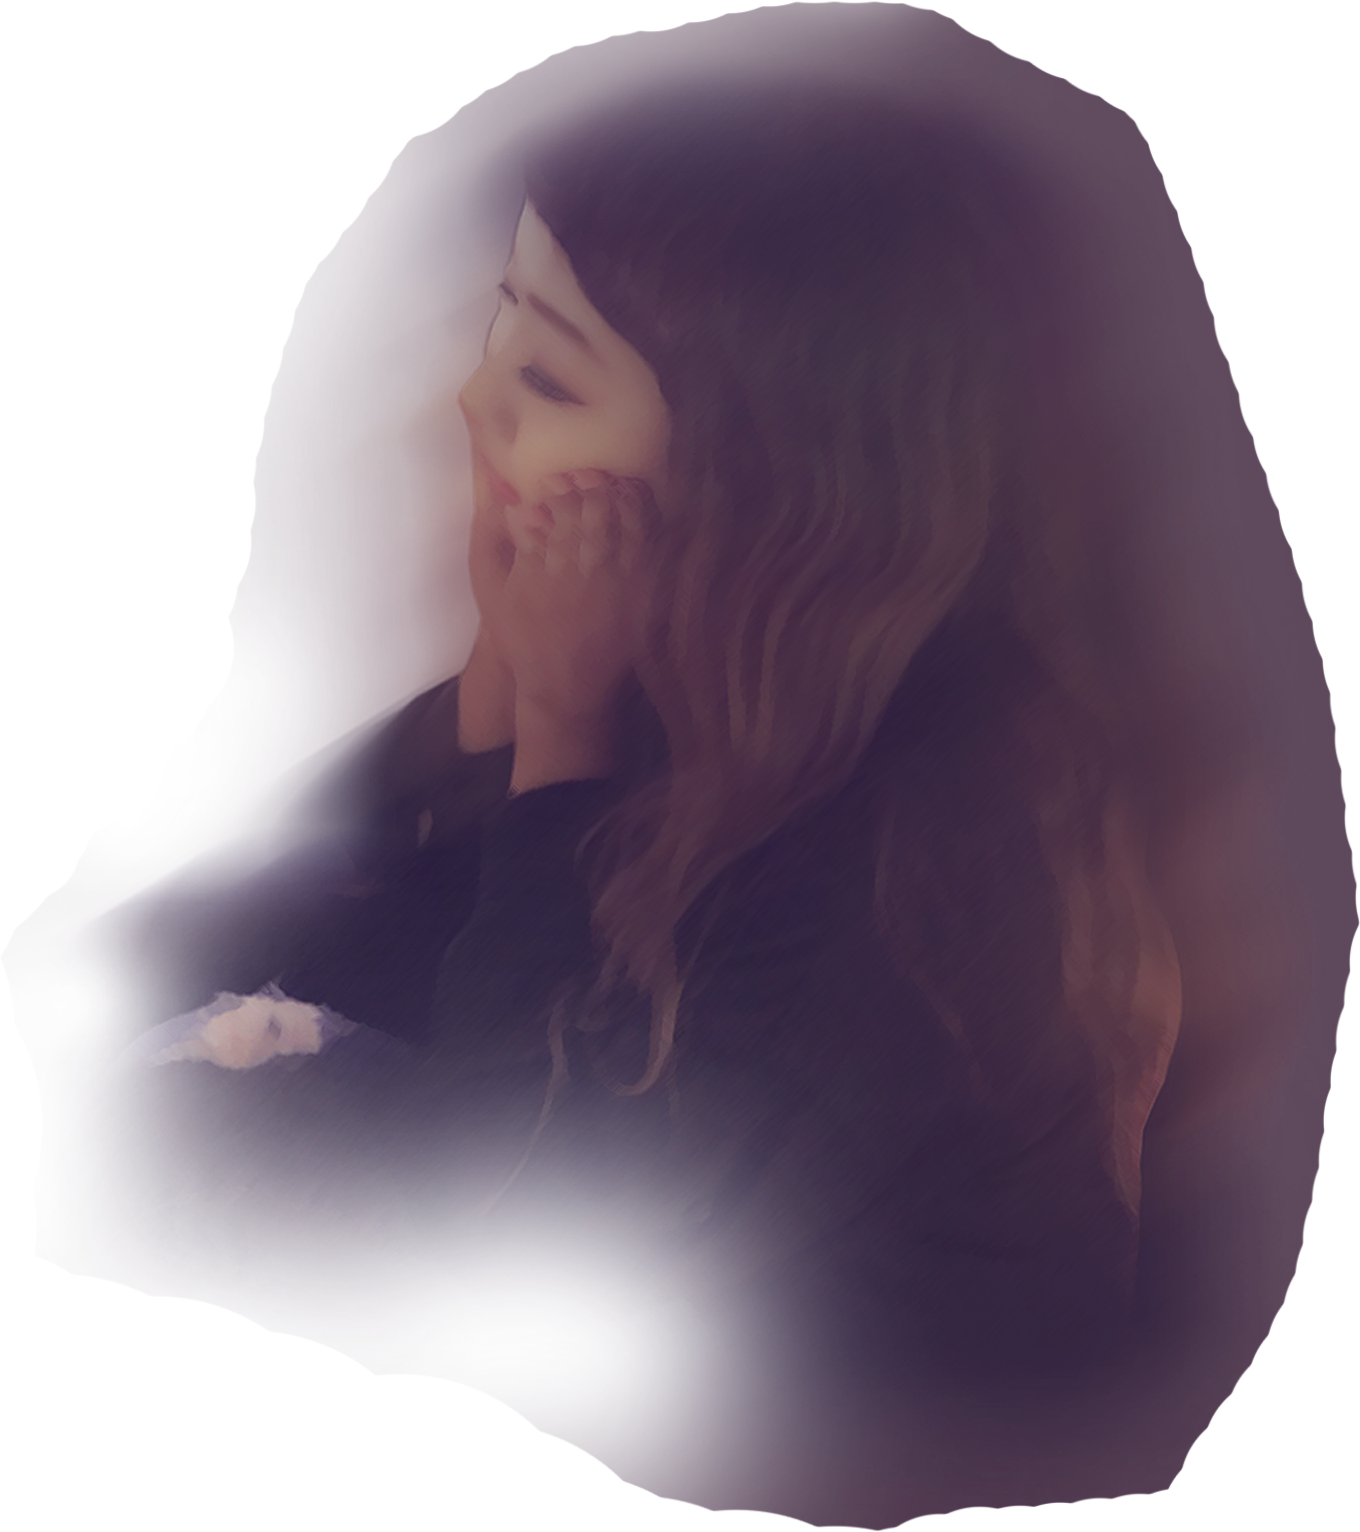
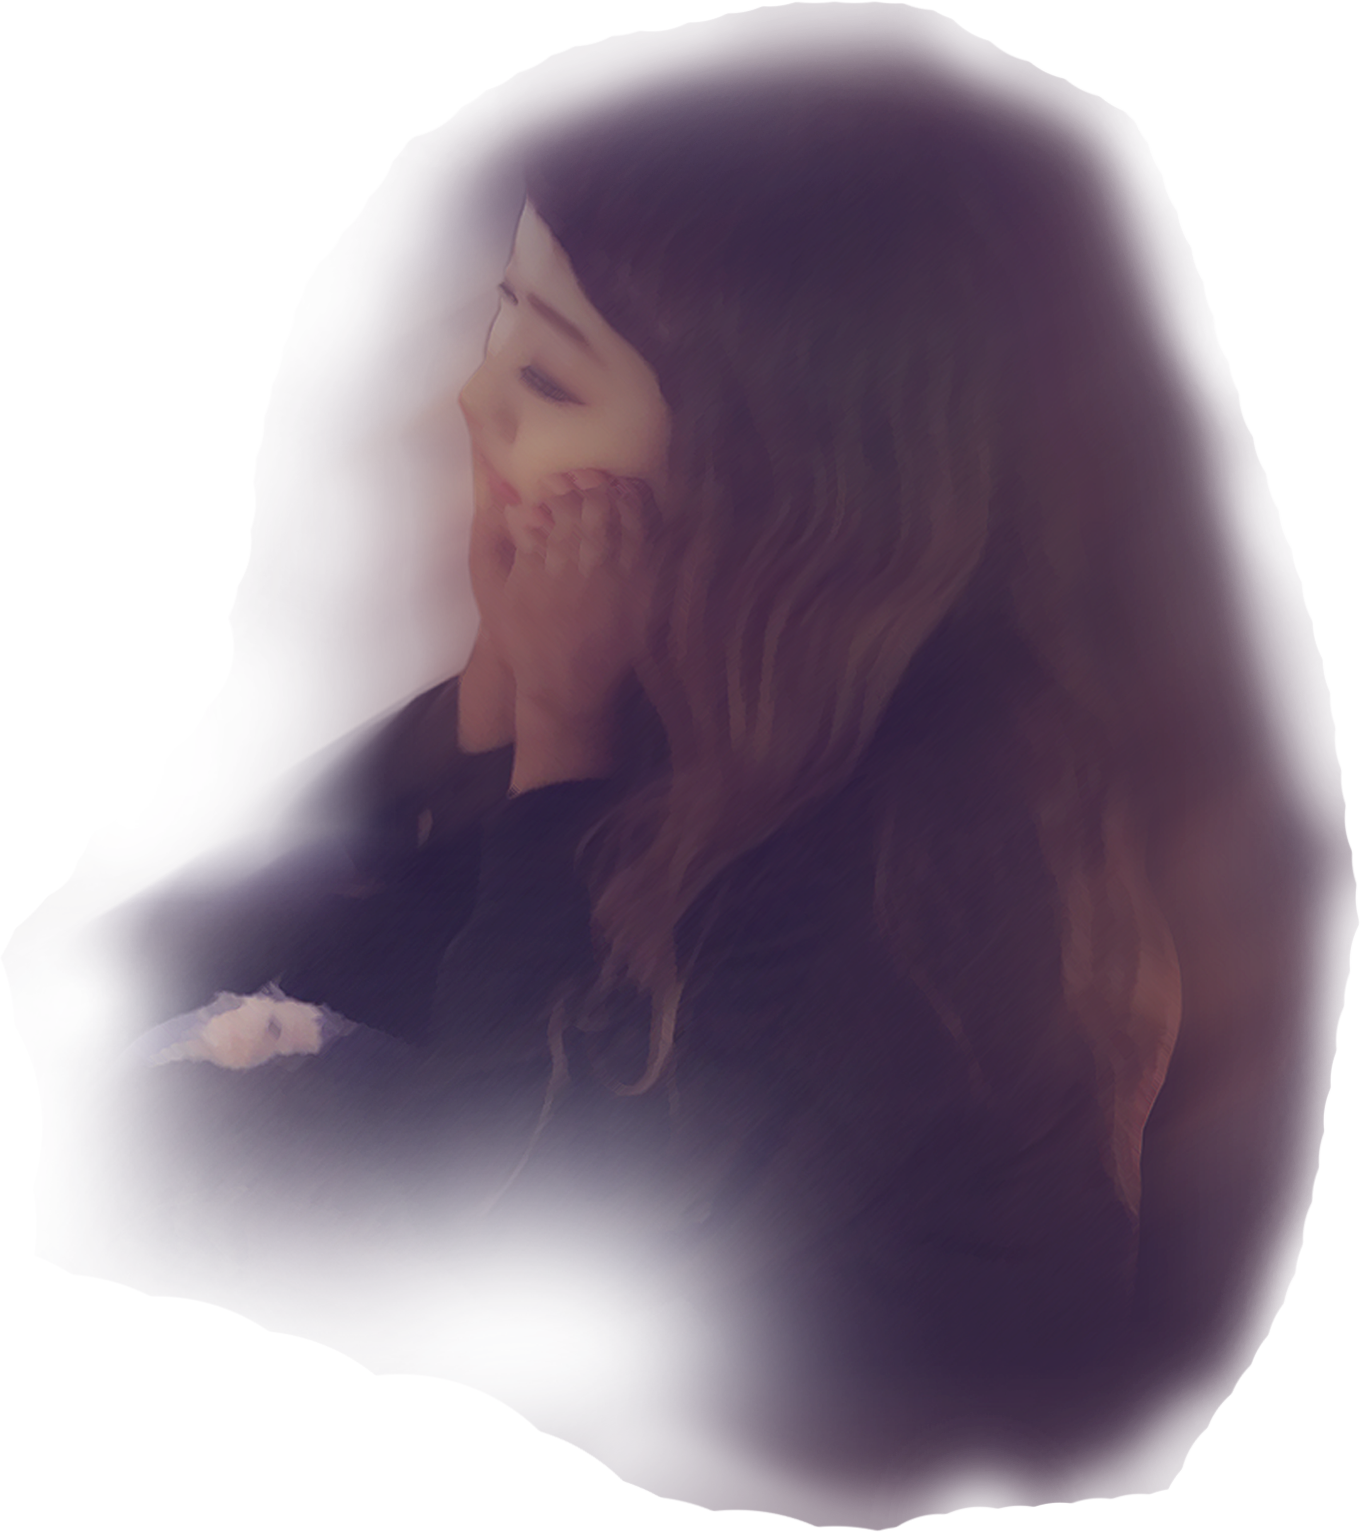
save

Changed region(s): [[0.2162, 0.0, 1.0, 1.0]]

diff --git a/asset/css/style_re.scss b/asset/css/style_re.scss
@@ -61,7 +61,7 @@ section {
 @media screen and (min-width: $tabletStart) {
 	.title_contaienr {
 		top: 245px;
-		left: 10%;
+		left: 5%;
 	}
 }
 
@@ -145,18 +145,18 @@ h1 {
 			left: -42vw;
 			height: 33vw;
 		}
-		.petal01 {
-			position: absolute;
-			top: 32vw;
-			left: 0;
-			width: 21vw;
-		}
-		.petal02 {
-			position: absolute;
-			bottom: 5vw;
-			right: 9vw;
-			width: 9.629vw;
-		}
+		// .petal01 {
+		// 	position: absolute;
+		// 	top: 32vw;
+		// 	left: 0;
+		// 	width: 21vw;
+		// }
+		// .petal02 {
+		// 	position: absolute;
+		// 	bottom: 5vw;
+		// 	right: 9vw;
+		// 	width: 9.629vw;
+		// }
 		
 	}
 }
@@ -176,38 +176,37 @@ h1 {
 			top: 0;
 			left: 50%;
 			bottom: 0;
-			width: 40%;
+			width: auto;
 
 			img {
 				width: auto;
-				height: 100%;
+				height: 110%;
 				margin-top: -20px;
-				transform: translateX(-200px);
 			}
 		}
 
 		.bg_container {
 			.moon {
 				left: 50%;
-				transform: translateX(-400px);
-				top: 62px;
-				width: 495px;
+				transform: translateX(-630px);
+				top: 40px;
+				width: 540px;
 			}
 			.left_tree {
 				bottom: -1vw;
 				left: -42vw;
 				height: 33vw;
 			}
-			.petal01 {
-				top: 32vw;
-				left: 0;
-				width: 21vw;
-			}
-			.petal02 {
-				bottom: 5vw;
-				right: 9vw;
-				width: 9.629vw;
-			}
+			// .petal01 {
+			// 	top: 32vw;
+			// 	left: 0;
+			// 	width: 21vw;
+			// }
+			// .petal02 {
+			// 	bottom: 5vw;
+			// 	right: 9vw;
+			// 	width: 9.629vw;
+			// }
 		}
 
 

diff --git a/asset/css/style_re.css b/asset/css/style_re.css
@@ -56,7 +56,7 @@ section {
 @media screen and (min-width: 768px) {
   .title_contaienr {
     top: 245px;
-    left: 10%;
+    left: 5%;
   }
 }
 
@@ -140,20 +140,6 @@ h1 + small {
   height: 33vw;
 }
 
-.section01 .bg_container .petal01 {
-  position: absolute;
-  top: 32vw;
-  left: 0;
-  width: 21vw;
-}
-
-.section01 .bg_container .petal02 {
-  position: absolute;
-  bottom: 5vw;
-  right: 9vw;
-  width: 9.629vw;
-}
-
 @media screen and (min-width: 1024px) {
   .small_img {
     display: none !important;
@@ -171,36 +157,24 @@ h1 + small {
     top: 0;
     left: 50%;
     bottom: 0;
-    width: 40%;
+    width: auto;
   }
   .section01 .img_conatainer img {
     width: auto;
-    height: 100%;
+    height: 110%;
     margin-top: -20px;
-    -webkit-transform: translateX(-200px);
-            transform: translateX(-200px);
   }
   .section01 .bg_container .moon {
     left: 50%;
-    -webkit-transform: translateX(-400px);
-            transform: translateX(-400px);
-    top: 62px;
-    width: 495px;
+    -webkit-transform: translateX(-630px);
+            transform: translateX(-630px);
+    top: 40px;
+    width: 540px;
   }
   .section01 .bg_container .left_tree {
     bottom: -1vw;
     left: -42vw;
     height: 33vw;
-  }
-  .section01 .bg_container .petal01 {
-    top: 32vw;
-    left: 0;
-    width: 21vw;
-  }
-  .section01 .bg_container .petal02 {
-    bottom: 5vw;
-    right: 9vw;
-    width: 9.629vw;
   }
 }
 
